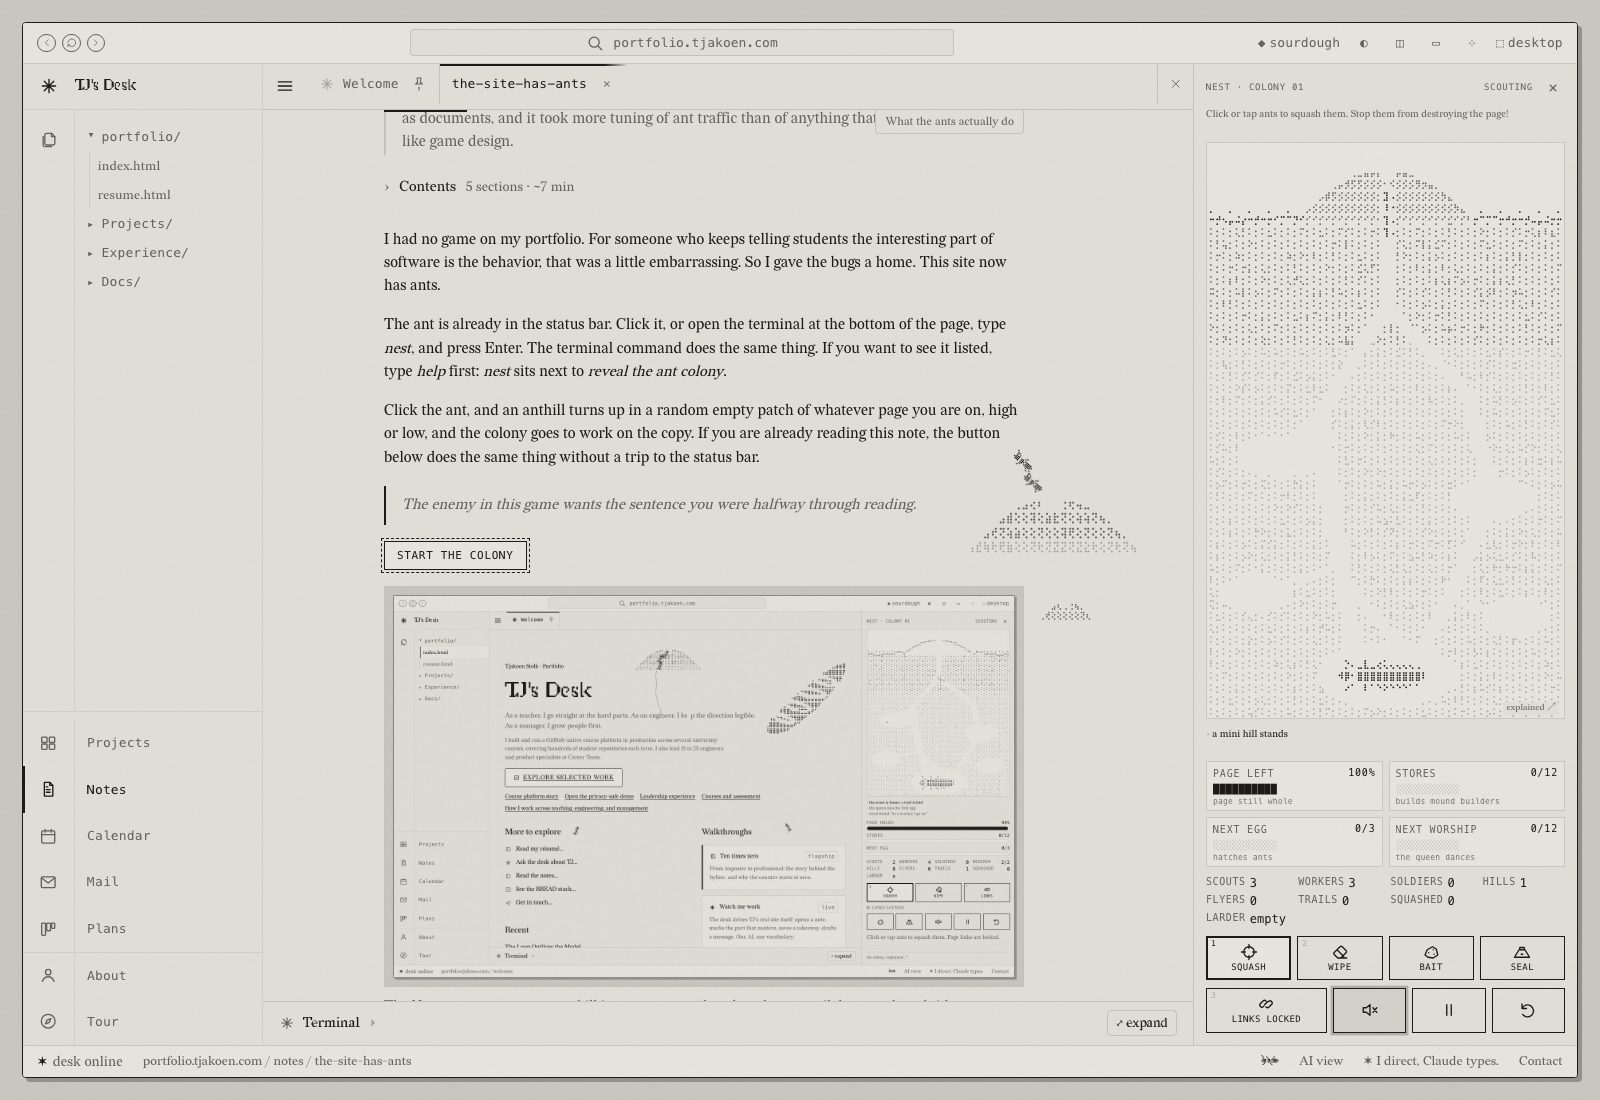
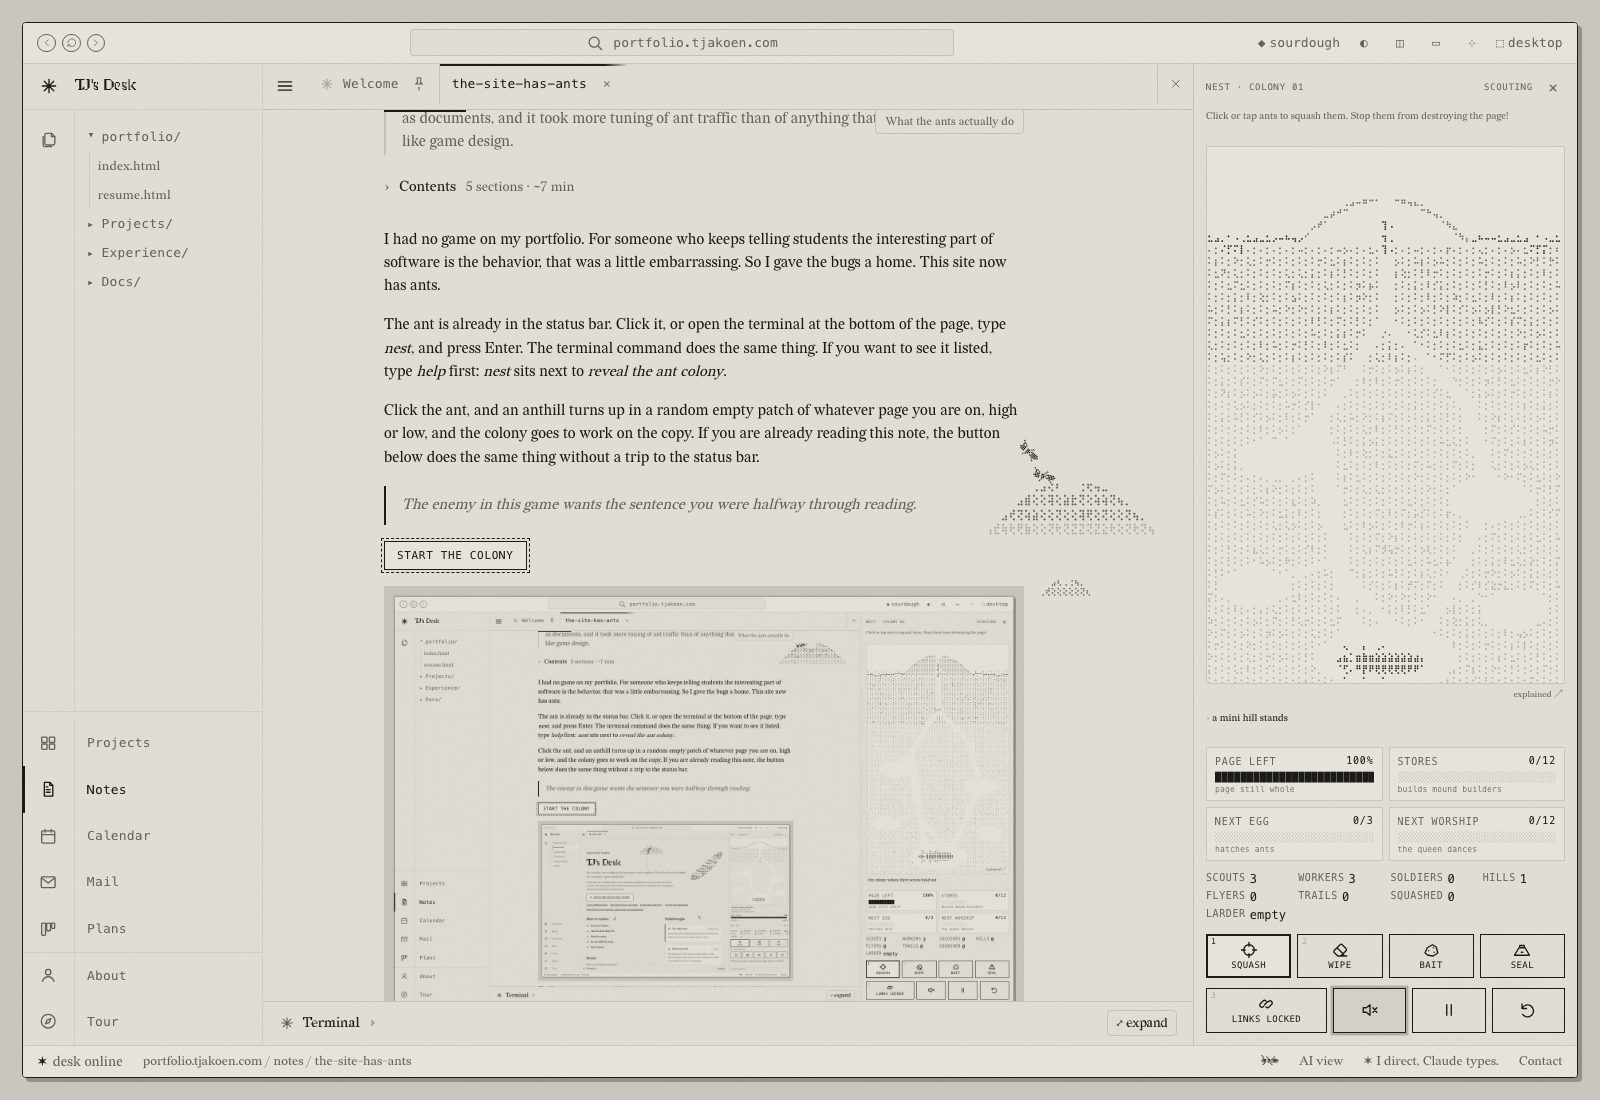
🐜 Let the meter bars fill their cards

diff --git a/scripts/nest-mockup.js b/scripts/nest-mockup.js
@@ -34,7 +34,7 @@
 
   const style = document.createElement("style");
   style.textContent = `
-    #nest-mock { flex: 1; min-height: 0; display: flex; flex-direction: column; gap: var(--space-2, 8px);
+    #nest-mock { flex: 1; min-height: 0; display: flex; flex-direction: column; gap: 10px;
       padding: var(--space-3, 12px); font: 12px/1.4 var(--font-mono); color: var(--ink);
       min-width: 0; max-width: 100%; overflow-x: hidden; }
     #nest-mock > * { min-width: 0; max-width: 100%; }
@@ -43,8 +43,8 @@
     #nest-mock .muted { color: var(--ink-muted); }
     #nest-mock .lbl { font-size: 10px; text-transform: uppercase; letter-spacing: .08em; display: flex; justify-content: space-between; gap: 8px; }
     #nest-mock .well { position: relative; flex: 1 1 0; min-height: 0; overflow: hidden; background: var(--paper-2); border: 1px solid var(--color-line);
-      display: flex; align-items: center; justify-content: center; }
-    .nest-pre { margin: 0; font-family: var(--font-mono); font-size: 10px; line-height: 1.2; letter-spacing: -0.04em;
+      display: flex; align-items: stretch; justify-content: center; }
+    .nest-pre { width: 100%; height: 100%; margin: 0; font-family: var(--font-mono); font-size: 10px; line-height: 1.2; letter-spacing: -0.04em;
       -webkit-text-stroke: 0.05em currentColor; color: var(--ink-faint); user-select: none; }
     .nest-pre b { font-weight: inherit; }
     .nest-pre .t1 { color: var(--ink-muted); } .nest-pre .t2, .nest-pre .t5, .nest-pre .t6 { color: var(--color-accent); }
@@ -196,7 +196,7 @@
     @keyframes nest-bob { to { transform: translateY(-3px); } }
     #nest-mock .nest-meters { display: grid; grid-template-columns: 1fr 1fr; gap: 6px; }
     #nest-mock .nest-meter { display: grid; grid-template-columns: minmax(0, 1fr) auto; gap: 2px 6px; align-content: start;
-      padding: 4px 6px; border: 1px solid var(--color-line); background: var(--paper-2); }
+      padding: 6px 8px; border: 1px solid var(--color-line); background: var(--paper-2); }
     #nest-mock .nest-meter > .lbl { min-width: 0; overflow: hidden; text-overflow: ellipsis; white-space: nowrap; }
     #nest-mock .nest-meter .hint { grid-column: 1 / -1; font: 8px/1.15 var(--font-mono); font-style: normal; letter-spacing: .02em; opacity: .55; white-space: nowrap; overflow: hidden; text-overflow: ellipsis; }
     #nest-mock .nest-meter__bar { grid-column: 1 / -1; font: 10px/1.2 var(--font-mono); letter-spacing: .04em; white-space: nowrap; overflow: hidden; }
@@ -212,7 +212,7 @@
     #nest-mock .tools button span { font-size: 9px; letter-spacing: .04em; text-transform: uppercase; max-width: 100%; overflow: hidden; text-overflow: ellipsis; white-space: nowrap; }
     #nest-mock .tools button kbd { position: absolute; top: 2px; left: 4px; font: 8px var(--font-mono); color: var(--ink-faint); }
     #nest-mock .tools button[aria-pressed="true"] kbd { color: var(--color-accent); }
-    #nest-mock .note-link { position: absolute; right: 5px; bottom: 3px; padding: 1px 3px; background: var(--paper); color: var(--ink-muted); font-size: 9px; line-height: 1.2; text-decoration: none; }
+    #nest-mock .note-link { align-self: flex-end; margin: -4px 2px 0; color: var(--ink-muted); font-size: 9px; line-height: 1.2; text-decoration: none; }
     #nest-mock .note-link:hover { color: var(--ink); }
     #nest-mock .activity { margin: 0; padding: 0; list-style: none; min-height: 2.6em; font-size: 10px; color: var(--ink-muted); }
     #nest-mock .activity li { white-space: nowrap; overflow: hidden; text-overflow: ellipsis; }
@@ -440,8 +440,8 @@
     <div class="head"><span class="lbl muted"><span>nest · colony 01</span></span><span class="lbl muted"><span data-k="status">waking</span></span>
       <button class="x" data-k="x" type="button" aria-label="Close the Nest" title="Close">×</button></div>
     <p class="muted tool-help" data-k="tool-help" aria-live="polite"></p>
-    <div class="well"><pre class="nest-pre" role="img" aria-label="Side view of the ant nest"></pre>
-      <a class="note-link" href="/notes/the-site-has-ants" target="_blank" rel="noopener" title="The colony, explained">explained ↗</a></div>
+    <div class="well"><pre class="nest-pre" role="img" aria-label="Side view of the ant nest"></pre></div>
+    <a class="note-link" href="/notes/the-site-has-ants" target="_blank" rel="noopener" title="The colony, explained">explained ↗</a>
     <ul class="log activity" data-k="log" aria-live="polite"></ul>
     <div class="nest-meters">
       <div class="nest-meter"><span class="lbl muted">page left</span><span class="lbl" data-k="holds-val">100%</span>
@@ -1768,10 +1768,11 @@
   const drawStats = () => {
     const setMeter = (key, ratio, text) => {
       const r = Math.min(1, Math.max(0, ratio));
-      const cells = 10, filled = Math.round(r * cells);
+      const meter = $(`${key}-bar`);
+      const cells = Math.max(10, Math.floor((meter?.clientWidth || 160) / 6));
+      const filled = Math.round(r * cells);
       const fill = $(key); if (fill) fill.textContent = "█".repeat(filled);
       const rest = $(`${key}-rest`); if (rest) rest.textContent = "░".repeat(cells - filled);
-      const meter = $(`${key}-bar`);
       if (meter) {
         meter.setAttribute("aria-valuenow", String(Math.round(r * 100)));
         meter.setAttribute("aria-valuetext", text ?? `${Math.round(r * 100)}%`);

diff --git a/e2e/terminal.e2e.ts b/e2e/terminal.e2e.ts
@@ -192,6 +192,7 @@ test.describe("the interactive terminal (third client of the one door)", () => {
     await page.goto("/?nest-debug");
     await page.locator(".nest-switch").click();
     await expect(page.locator("#nest-mock")).toBeVisible();
+    await page.waitForTimeout(500);
     await page.getByRole("button", { name: "Pause" }).click();
     const well = page.locator("#nest-mock .well");
     const before = await well.boundingBox();

diff --git a/artifacts/runs/2026-11-08-nest-polish.md b/artifacts/runs/2026-11-08-nest-polish.md
@@ -16,7 +16,7 @@ touched:
   - e2e/terminal.e2e.ts
   - artifacts/runs/2026-11-08-nest-polish.md
 diffstat: one game file of 760 changed lines, the note copy, its two screenshots and social card, the review tour and the terminal e2e
-unpushed: 47 | the branch is local for review
+unpushed: 48 | the branch is local for review
 verifiedBy: three light and dark browser runs, a forced party, a forced mini hill, a 12 second guard sample, a real trail wipe, a real squash, an animated stray check, a stray-exit check, a natural stray-run check, a trail-shape check, a scout-direction check, a guard-defence check, a party check, a guard-range check, a restore-mounds check, a keyboard-layout check, a dead-scout check, a no-scout queen check, a no-reserve stat check, an empty-colony check, a queen-crawl check, a worship-bar check, a guard-flash check, a guard-return check, a multi-swat check, a reset-warning check, a reset-scroll check, a reset-ants check, a larder-width check, a meter-hint check, a stores-cap check, a worship-population check, a queen-dance check, a guard-nearest check, a mound-heal check, a note-start check, a lock-toast check, a sound-hint check, a home-spot check, a page-leave confirm check, a stray command check, a session stray check, a trail-bend and text-selection check, a page-switch close check, a bread-overlap check, a sidebar overflow check, a help and query-shortcut check, a rendered note check, and the terminal e2e
 doctor: 23 checks, 0 failing, 1 due | the Claude Code context budget remains due
 ---
@@ -114,7 +114,7 @@ and the colony and page tool rows sit at the bottom. The status and help sentenc
 The activity log is one line, and the four meters run two by two as clean cards: label and value on
 one line, the full ten-cell bar below, and the hint on its own line, so no label wraps into the
 next card. That gave the nest well another thirty-five pixels. The meter bars are
-block cells, filled with █ and empty with ░, with each meter in a bordered card and the log on one line. The meter classes are namespaced to the panel, because GRAIN's global `.meter` atom was
+block cells that fill the card width, filled with █ and empty with ░, with each meter in a bordered card and the log on one line. The nest well stretches to its full height and the explained link sits outside the box at its bottom right. The meter classes are namespaced to the panel, because GRAIN's global `.meter` atom was
 clipping the labels to eight pixels. The panel also clips horizontally, so a long larder or status
 cannot create a sideways scroll. The stat values sit next to their labels; the old space-between
 pushed the next 0 far enough right that it read as the trails value. The larder is a full-width
@@ -166,10 +166,10 @@ $ bun test
  894 pass
  0 fail
  3885 expect() calls
-Ran 896 tests across 49 files. [6.07s]
+Ran 896 tests across 49 files. [5.67s]
 
 $ bunx playwright test e2e/terminal.e2e.ts --ignore-snapshots
-  28 passed (29.9s)
+  28 passed (30.0s)
 
 $ bunx oxlint scripts/nest-mockup.js
 Found 0 warnings and 0 errors.
